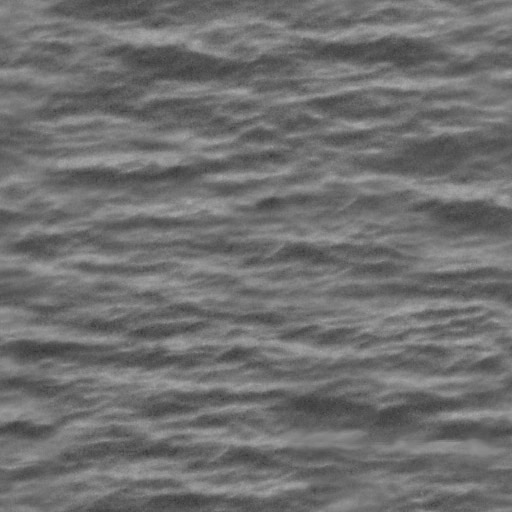
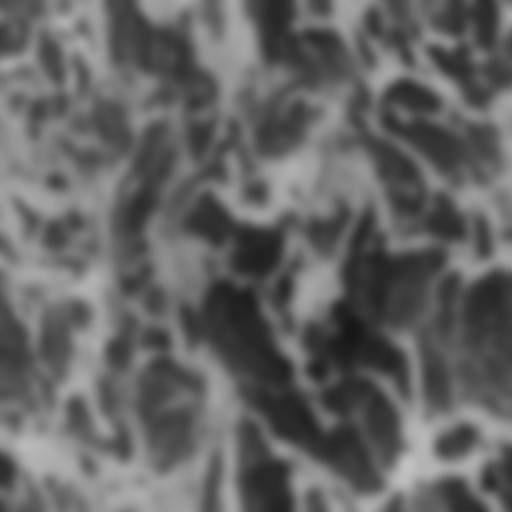
Shaders finished

diff --git a/Project2/primitives/MyWater.js b/Project2/primitives/MyWater.js
@@ -10,6 +10,8 @@ class MyWater extends MyPlane
     this.wavemap = scene.graph.textures[idwavemap];
     this.heightscale = heightscale;
     this.texscale = texscale;
+		this.offset = 0;
+		this.delta;
 		this.setShader();
 	};
 
@@ -17,13 +19,16 @@ class MyWater extends MyPlane
 		this.shader = new CGFshader(this.scene.gl, "./shaders/water.vert", "./shaders/water.frag");
 		this.shader.setUniformsValues({uSampler2: 1});
 		this.shader.setUniformsValues({normScale: this.heightscale});
+		this.shader.setUniformsValues({texScale: this.texscale});
 
 		this.appearance = new CGFappearance(this.scene);
 		this.appearance.setTexture(this.texture);
 	};
 
 	display() {
-		this.shader.setUniformsValues({timeFactor: this.scene.timeFactor});
+		this.offset = (this.offset + 0.0025) % 1;
+		this.delta = this.offset - 0.5;
+		this.shader.setUniformsValues({delta: this.delta});
 		this.scene.setActiveShader(this.shader);
 		this.appearance.apply();
 		this.wavemap.bind(1);

diff --git a/Project2/XMLscene.js b/Project2/XMLscene.js
@@ -18,7 +18,6 @@ class XMLscene extends CGFscene {
     this.showAxis = true;
     this.previous = -1;
     this.delta;
-    this.timeFactor;
   }
 
   /**
@@ -175,7 +174,6 @@ class XMLscene extends CGFscene {
     else
       this.delta = currTime - this.previous;
 
-    this.timeFactor = Math.abs(Math.sin(currTime / 1000));
     this.previous = currTime;
   }
 }

diff --git a/Project2/animations/CircularAnimation.js b/Project2/animations/CircularAnimation.js
@@ -35,7 +35,7 @@ class CircularAnimation extends Animation
 		mat4.identity(matrix);
 		mat4.translate(matrix, matrix, this.center);
 		mat4.translate(matrix, matrix, vec3.fromValues(Math.cos(angle)*this.radius,0,Math.sin(angle)*this.radius));
-		mat4.rotateY(matrix, matrix, -angle);
+		mat4.rotateY(matrix, matrix,-angle);
 		this.matrix = matrix;
 	};
 

diff --git a/Project2/animations/LinearAnimation.js b/Project2/animations/LinearAnimation.js
@@ -72,7 +72,10 @@ class LinearAnimation extends Animation
 	};
 
 	getAngle(i){
-			return Math.atan2(1,0) - Math.atan2(this.vectors[i][2],this.vectors[i][0]);
+			if(this.vectors[i][2] == 0 && this.vectors[i][0] == 0)
+				return 0;
+			else
+				return Math.atan2(1,0) - Math.atan2(this.vectors[i][2],this.vectors[i][0]);
 	};
 
 };

diff --git a/Project2/animations/Animation.js b/Project2/animations/Animation.js
@@ -17,6 +17,7 @@ class Animation
   };
 
 	apply(scene){
+		//console.log(this.time)
 		scene.multMatrix(this.matrix);
   };
 
